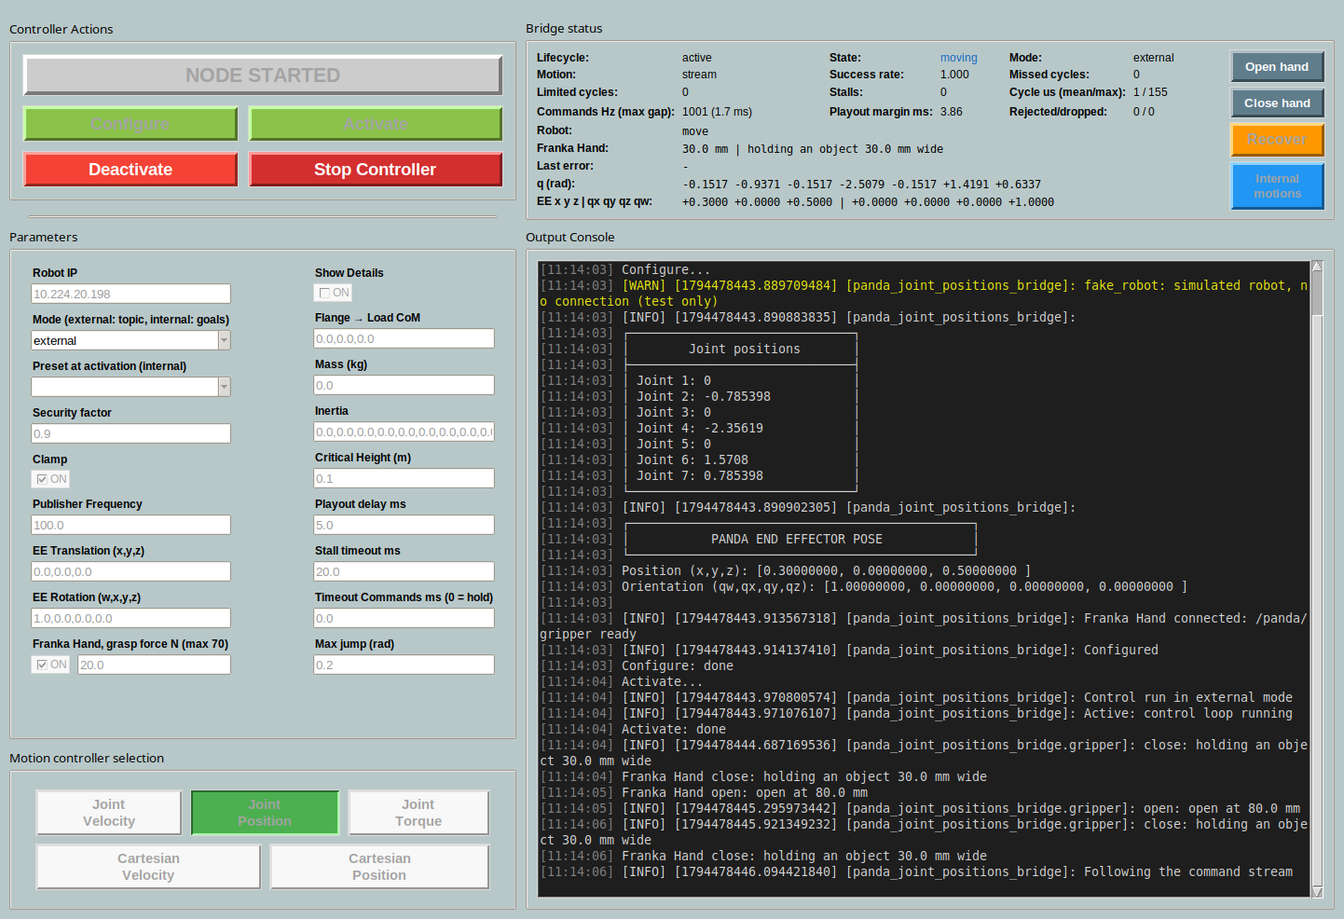
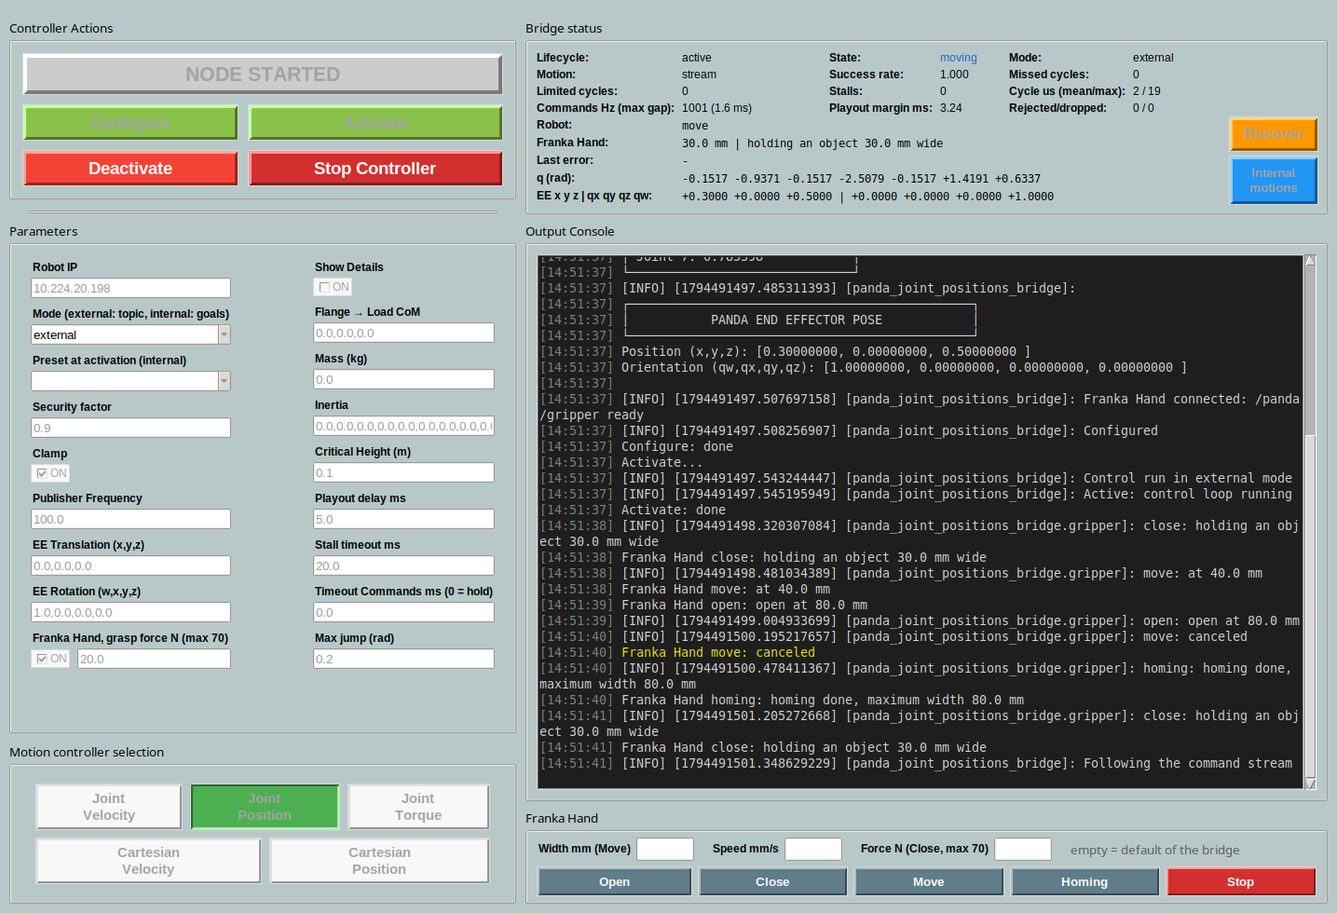
Document the dynamic model, the launch without GUI and the hand bar

diff --git a/README.it.md b/README.it.md
@@ -19,14 +19,15 @@ Il codice precedente a questa versione è nel branch [`old`](https://github.com/
 4. [Collegare il robot](#collegare-il-robot)
 5. [Avvio rapido](#avvio-rapido)
 6. [La GUI](#la-gui)
-7. [Comandare il robot da un proprio programma](#comandare-il-robot-da-un-proprio-programma)
-8. [Moti interni: goal e preset](#moti-interni-goal-e-preset)
-9. [La Franka Hand](#la-franka-hand)
-10. [Stato, errori e ripresa](#stato-errori-e-ripresa)
-11. [Parametri](#parametri)
-12. [Provare senza robot](#provare-senza-robot)
-13. [Prove sul robot](#prove-sul-robot)
-14. [Test automatici](#test-automatici)
+7. [Senza GUI](#senza-gui)
+8. [Comandare il robot da un proprio programma](#comandare-il-robot-da-un-proprio-programma)
+9. [Moti interni: goal e preset](#moti-interni-goal-e-preset)
+10. [La Franka Hand](#la-franka-hand)
+11. [Stato, errori e ripresa](#stato-errori-e-ripresa)
+12. [Parametri](#parametri)
+13. [Provare senza robot](#provare-senza-robot)
+14. [Prove sul robot](#prove-sul-robot)
+15. [Test automatici](#test-automatici)
 
 ## Come è fatto
 
@@ -163,8 +164,9 @@ Da valutare: gli interrupt della scheda di rete sulla stessa CPU del loop (`rt_c
 | 1 | **Controller Actions** | avvia il bridge e lo porta attraverso i suoi stati (tabella sotto) |
 | 2 | **Parameters** | parametri del bridge scelto; si bloccano mentre il bridge è in esecuzione |
 | 3 | **Motion controller selection** | quale bridge avviare: giunti sulla prima riga, cartesiani sulla seconda |
-| 4 | **Bridge status** | stato del bridge, del robot e della Franka Hand, aggiornato 5 volte al secondo; pulsanti **Open hand**, **Close hand**, **Recover** e **Internal motions** |
+| 4 | **Bridge status** | stato del bridge, del robot e della Franka Hand, aggiornato 5 volte al secondo; pulsanti **Recover** e **Internal motions** |
 | 5 | **Output Console** | il log della GUI e del bridge: errori in rosso, avvisi in giallo |
+| 6 | **Franka Hand** | i comandi della pinza: larghezza, velocità e forza (vuoti = default del bridge), **Open**, **Close**, **Move**, **Homing**, **Stop** |
 
 I pulsanti si abilitano solo quando l'azione è possibile:
 
@@ -175,7 +177,7 @@ I pulsanti si abilitano solo quando l'azione è possibile:
 | Activate | parte il loop di controllo a 1 kHz; il robot tiene la posizione |
 | Deactivate | fermata dolce, poi il loop si chiude; il robot resta connesso |
 | Stop Controller | Deactivate (se attivo), poi chiude il bridge |
-| Open hand, Close hand | aprono la Franka Hand, o la chiudono con la forza del parametro **Franka Hand, grasp force**, in ogni bridge e modalità; attivi mentre la pinza è collegata |
+| barra Franka Hand | **Open**, **Close** (con la forza della barra, o del parametro **Franka Hand, grasp force**), **Move** alla larghezza, **Homing**, **Stop**; in ogni bridge e modalità, attivi mentre la pinza è collegata |
 
 Se un passo fallisce, per esempio Configure con il robot non raggiungibile, compare un errore e la console dice perché.
 
@@ -216,6 +218,25 @@ Scegliendo **Mode** `internal` si apre la finestra **Internal motions**. Se la c
 Dopo un reflex del robot, lo user stop o un errore del bridge, **State** diventa `error`, la causa compare in **Last error** e in rosso nella console, e si abilita **Recover**. Recover esegue la procedura di ripresa di libfranka e, se il bridge è attivo, il robot torna a tenere la posizione.
 
 Nella schermata il bridge si è fermato perché non riceveva comandi da più di 500 ms (parametro **Timeout Commands ms**).
+
+## Senza GUI
+
+Per lasciare il driver acceso, o per avviarlo da uno script, usa `bridge.launch.py`: avvia un bridge, lo configura e lo attiva.
+
+```bash
+ros2 launch panda_utils bridge.launch.py bridge:=joint_positions
+ros2 launch panda_utils bridge.launch.py bridge:=cartesian_velocity mode:=internal robot_ip:=172.16.0.2
+ros2 launch panda_utils bridge.launch.py bridge:=joint_torques params_file:=/path/to/my.yaml activate:=false
+```
+
+| Argomento | Default | Significato |
+|---|---|---|
+| `bridge` | `joint_positions` | `joint_positions`, `joint_velocities`, `joint_torques`, `cartesian_position` o `cartesian_velocity` |
+| `params_file` | `config/bridge.yaml` del pacchetto | file YAML con i parametri (vedi [Parametri](#parametri)) |
+| `activate` | `true` | `false`: solo configurazione; l'attivazione poi con `ros2 lifecycle set /panda_<bridge>_bridge activate` |
+| `robot_ip`, `mode` | dal file | sostituiscono il valore del file |
+
+Per i tuoi parametri copia `src/panda_utils/config/bridge.yaml`, modificalo e passalo con `params_file`: i commenti spiegano come. Ctrl+C ferma il robot dolcemente, poi il bridge esce. Mentre un bridge gira così la GUI non può avviarne un altro: al robot si collega un solo bridge alla volta.
 
 ## Comandare il robot da un proprio programma
 
@@ -319,7 +340,7 @@ Un goal che porterebbe il robot oltre i finecorsa viene rifiutato; uno troppo ve
 
 ## La Franka Hand
 
-Ogni bridge comanda la Franka Hand con l'azione `/panda/gripper`, da Configure a Cleanup: in tutte e due le modalità, con il braccio fermo, in moto o disattivato. La pinza ha una connessione sua, quindi i suoi comandi non rallentano mai il loop a 1 kHz del braccio. Nella GUI: **Open hand** e **Close hand**.
+Ogni bridge comanda la Franka Hand con l'azione `/panda/gripper`, da Configure a Cleanup: in tutte e due le modalità, con il braccio fermo, in moto o disattivato. La pinza ha una connessione sua, quindi i suoi comandi non rallentano mai il loop a 1 kHz del braccio. Nella GUI: la barra **Franka Hand** sotto la console.
 
 | `command` | Cosa fa | Campi usati |
 |---|---|---|
@@ -343,7 +364,7 @@ ros2 action send_goal /panda/gripper uclv_panda_interfaces/action/Gripper "{comm
 
 Il risultato ha `success`, la larghezza finale `width` (m) e un `message`, per esempio `holding an object 30.0 mm wide` o `closed: nothing between the fingers`. Il feedback è l'apertura mentre le dita si muovono.
 
-- Un goal nuovo ferma quello in corso, che finisce come `preempted by a newer goal`: premendo Open hand mentre la pinza si chiude, si riapre subito.
+- Un goal nuovo ferma quello in corso, che finisce come `preempted by a newer goal`: premendo Open mentre la pinza si chiude, si riapre subito.
 - Il cancel di un goal ferma le dita dove sono.
 - Dopo un CLOSE su un oggetto la pinza continua a tenerlo, anche quando il bridge si chiude. Dopo un CLOSE a vuoto smette di stringere: le dita restano chiuse senza premere l'una sull'altra.
 - Appoggiate al finecorsa esterno (tutte aperte, come dopo un homing) le dita possono incastrarsi, e una presa da sola non le stacca: CLOSE prima le sposta di 2 mm con un movimento in posizione.
@@ -371,7 +392,7 @@ Da Configure in poi ogni bridge pubblica:
 | Topic | Tipo | Contenuto |
 |---|---|---|
 | `/joint_states` | `sensor_msgs/JointState` | posizioni, velocità e coppie dei giunti |
-| `/panda/robot_state` | `uclv_panda_interfaces/PandaRobotState` | stato completo: `q`, `q_d`, velocità, coppie, pose (`o_t_ee`, `o_t_ee_d`), forze esterne, modo ed errori del robot |
+| `/panda/robot_state` | `uclv_panda_interfaces/PandaRobotState` | stato completo: `q`, `q_d`, velocità, coppie, pose (`o_t_ee`, `o_t_ee_d`), forze esterne, modo ed errori del robot, modello dinamico ([sotto](#il-modello-dinamico)) |
 | `/pose_state_read_ee` | `geometry_msgs/PoseStamped` | posa dell'end effector letta dal robot |
 | `/pose_state_computed_ee` | `geometry_msgs/PoseStamped` | posa della flangia calcolata dal modello |
 | `/panda/gripper_state` | `sensor_msgs/JointState` | apertura della Franka Hand: `fer_finger_joint1` e `fer_finger_joint2`, metà dell'apertura ciascuno |
@@ -380,6 +401,21 @@ Da Configure in poi ogni bridge pubblica:
 ```bash
 ros2 topic echo /panda/bridge_status                              # diagnostica
 ros2 service call /panda/error_recovery std_srvs/srv/Trigger      # ripresa dopo un errore (= Recover)
+```
+
+### Il modello dinamico
+
+Con il robot vero, `/panda/robot_state` porta anche il modello di libfranka in quello stato: `jacobian` (jacobiano zero dello stesso end effector di `o_t_ee`), `mass`, `coriolis` (C(q, dq)·dq) e `gravity` (con il carico impostato sul robot), con `has_model` a true. Il robot simulato non ha un modello: `has_model` è false e i vettori sono a zero. Il bridge li calcola nel thread publisher, mai nel loop di controllo. Le matrici sono column-major, come in libfranka:
+
+```python
+import numpy as np
+
+def on_state(msg):
+    if msg.has_model:
+        J = np.array(msg.jacobian).reshape(7, 6).T  # 6x7
+        M = np.array(msg.mass).reshape(7, 7).T      # 7x7
+        twist = J @ np.array(msg.dq)                 # end effector (v, w) in the base frame
+        tau_free = np.array(msg.gravity) + np.array(msg.coriolis)
 ```
 
 Cosa fa il bridge negli altri casi:
@@ -495,11 +531,13 @@ Tieni sempre lo user stop in mano. Per le prove internal imposta `mode internal`
 | 19 | uno qualsiasi | | Deactivate e Activate 10 volte | ogni passo riesce |
 | 20 | uno qualsiasi | | user stop premuto, rilasciato, poi Recover | `error` e robot `user_stopped`; dopo Recover di nuovo `holding` |
 | 21 | uno qualsiasi | | Ctrl+C nel terminale della GUI con il bridge attivo | GUI e bridge escono in meno di un secondo |
-| 22 | uno qualsiasi | | Close hand, poi Open hand, senza niente tra le dita | le dita si chiudono del tutto (`closed: nothing between the fingers`), poi si aprono fino alla larghezza massima |
-| 23 | uno qualsiasi | | un oggetto tra le dita, poi Close hand | `holding an object … mm wide`, con la larghezza dell'oggetto; la pinza lo tiene fino a Open hand |
-| 24 | Joint Position | external | Close hand e Open hand durante `simple_joints_traj` | lo stream continua senza disturbi: `stalls` 0, success rate vicino a 1 |
+| 22 | uno qualsiasi | | Close, poi Open (barra Franka Hand), senza niente tra le dita | le dita si chiudono del tutto (`closed: nothing between the fingers`), poi si aprono fino alla larghezza massima |
+| 23 | uno qualsiasi | | un oggetto tra le dita, poi Close | `holding an object … mm wide`, con la larghezza dell'oggetto; la pinza lo tiene fino a Open |
+| 24 | Joint Position | external | Close e Open durante `simple_joints_traj` | lo stream continua senza disturbi: `stalls` 0, success rate vicino a 1 |
 | 25 | uno qualsiasi | | `ros2 action send_goal /panda/gripper uclv_panda_interfaces/action/Gripper "{command: 3}"` | homing: le dita si chiudono e si aprono, il risultato dà la larghezza massima |
-| 26 | uno qualsiasi | | subito dopo la prova 25, Close hand | le dita si chiudono: CLOSE prima le stacca dal finecorsa esterno |
+| 26 | uno qualsiasi | | subito dopo la prova 25, Close | le dita si chiudono: CLOSE prima le stacca dal finecorsa esterno |
+| 27 | uno qualsiasi | | robot fermo, `ros2 topic echo --once /panda/robot_state` | `has_model` true; `gravity` vicino a `tau_j`, entro pochi Nm |
+| 28 | Joint Position | external | senza GUI: `ros2 launch panda_utils bridge.launch.py bridge:=joint_positions robot_ip:=<ip-del-robot>`, poi `simple_joints_traj` | il bridge parte già attivo e segue lo stream; Ctrl+C lo ferma |
 
 Durante ogni prova, in `/panda/bridge_status`: `control_command_success_rate` vicino a 1, `last_error` vuoto (salvo la prova 20), `missed_cycles` che cresce poco, `stalls` a 0 quando uno stream finisce da solo.
 

diff --git a/README.md b/README.md
@@ -19,14 +19,15 @@ The code before this version is on the [`old`](https://github.com/gianmarcodipuo
 4. [Connecting the robot](#connecting-the-robot)
 5. [Quick start](#quick-start)
 6. [The GUI](#the-gui)
-7. [Commanding the robot from your own program](#commanding-the-robot-from-your-own-program)
-8. [Internal motions: goals and presets](#internal-motions-goals-and-presets)
-9. [The Franka Hand](#the-franka-hand)
-10. [State, errors and recovery](#state-errors-and-recovery)
-11. [Parameters](#parameters)
-12. [Trying it without a robot](#trying-it-without-a-robot)
-13. [Robot tests](#robot-tests)
-14. [Automated tests](#automated-tests)
+7. [Without the GUI](#without-the-gui)
+8. [Commanding the robot from your own program](#commanding-the-robot-from-your-own-program)
+9. [Internal motions: goals and presets](#internal-motions-goals-and-presets)
+10. [The Franka Hand](#the-franka-hand)
+11. [State, errors and recovery](#state-errors-and-recovery)
+12. [Parameters](#parameters)
+13. [Trying it without a robot](#trying-it-without-a-robot)
+14. [Robot tests](#robot-tests)
+15. [Automated tests](#automated-tests)
 
 ## How it works
 
@@ -163,8 +164,9 @@ Worth considering: the network card interrupts on the same CPU as the loop (`rt_
 | 1 | **Controller Actions** | starts the bridge and takes it through its states (table below) |
 | 2 | **Parameters** | parameters of the chosen bridge; they are locked while the bridge is running |
 | 3 | **Motion controller selection** | which bridge to start: joint bridges on the first row, Cartesian ones on the second |
-| 4 | **Bridge status** | state of the bridge, of the robot and of the Franka Hand, updated 5 times per second; **Open hand**, **Close hand**, **Recover** and **Internal motions** buttons |
+| 4 | **Bridge status** | state of the bridge, of the robot and of the Franka Hand, updated 5 times per second; **Recover** and **Internal motions** buttons |
 | 5 | **Output Console** | the log of the GUI and of the bridge: errors in red, warnings in yellow |
+| 6 | **Franka Hand** | the commands of the hand: width, speed and force (empty = default of the bridge), **Open**, **Close**, **Move**, **Homing**, **Stop** |
 
 The buttons are enabled only when the action is possible:
 
@@ -175,7 +177,7 @@ The buttons are enabled only when the action is possible:
 | Activate | starts the 1 kHz control loop; the robot holds its position |
 | Deactivate | smooth stop, then the loop ends; the robot stays connected |
 | Stop Controller | Deactivate (if active), then closes the bridge |
-| Open hand, Close hand | open the Franka Hand, or close it with the force of the **Franka Hand, grasp force** parameter, in every bridge and mode; enabled while the hand is connected |
+| Franka Hand bar | **Open**, **Close** (with the force of the bar, or of the **Franka Hand, grasp force** parameter), **Move** to the width, **Homing**, **Stop**; in every bridge and mode, enabled while the hand is connected |
 
 If a step fails, for example Configure with the robot unreachable, an error pops up and the console says why.
 
@@ -216,6 +218,25 @@ Choosing **Mode** `internal` opens the **Internal motions** window. If you close
 After a robot reflex, the user stop or a bridge error, **State** becomes `error`, the cause appears in **Last error** and in red in the console, and **Recover** is enabled. Recover runs the libfranka recovery procedure and, if the bridge is active, the robot holds its position again.
 
 In the screenshot the bridge stopped because it had received no commands for more than 500 ms (parameter **Timeout Commands ms**).
+
+## Without the GUI
+
+To leave the driver running, or to start it from a script, use `bridge.launch.py`: it starts one bridge, configures it and activates it.
+
+```bash
+ros2 launch panda_utils bridge.launch.py bridge:=joint_positions
+ros2 launch panda_utils bridge.launch.py bridge:=cartesian_velocity mode:=internal robot_ip:=172.16.0.2
+ros2 launch panda_utils bridge.launch.py bridge:=joint_torques params_file:=/path/to/my.yaml activate:=false
+```
+
+| Argument | Default | Meaning |
+|---|---|---|
+| `bridge` | `joint_positions` | `joint_positions`, `joint_velocities`, `joint_torques`, `cartesian_position` or `cartesian_velocity` |
+| `params_file` | `config/bridge.yaml` of the package | YAML file with the parameters (see [Parameters](#parameters)) |
+| `activate` | `true` | `false`: configure only; activate later with `ros2 lifecycle set /panda_<bridge>_bridge activate` |
+| `robot_ip`, `mode` | from the file | override the file |
+
+For your own parameters, copy `src/panda_utils/config/bridge.yaml`, change it and pass it with `params_file`: its comments explain how. Ctrl+C stops the robot smoothly, then the bridge exits. While a bridge runs this way the GUI cannot start another one: only one bridge at a time connects to the robot.
 
 ## Commanding the robot from your own program
 
@@ -319,7 +340,7 @@ A goal that would take the robot beyond its joint limits is rejected; one that i
 
 ## The Franka Hand
 
-Every bridge drives the Franka Hand with the action `/panda/gripper`, from Configure to Cleanup: in both modes, with the arm still, moving or deactivated. The hand has a connection of its own, so its commands never slow down the 1 kHz loop of the arm. In the GUI: **Open hand** and **Close hand**.
+Every bridge drives the Franka Hand with the action `/panda/gripper`, from Configure to Cleanup: in both modes, with the arm still, moving or deactivated. The hand has a connection of its own, so its commands never slow down the 1 kHz loop of the arm. In the GUI: the **Franka Hand** bar under the console.
 
 | `command` | What it does | Fields used |
 |---|---|---|
@@ -343,7 +364,7 @@ ros2 action send_goal /panda/gripper uclv_panda_interfaces/action/Gripper "{comm
 
 The result has `success`, the final `width` (m) and a `message`, for example `holding an object 30.0 mm wide` or `closed: nothing between the fingers`. The feedback is the opening while the fingers move.
 
-- A new goal stops the running one, which ends as `preempted by a newer goal`: pressing Open hand while the hand closes opens it at once.
+- A new goal stops the running one, which ends as `preempted by a newer goal`: pressing Open while the hand closes opens it at once.
 - Canceling a goal stops the fingers where they are.
 - After a CLOSE on an object the hand keeps holding it, also when the bridge closes. After a CLOSE on nothing it stops squeezing: the fingers stay closed without pressing on each other.
 - Resting on the outer end stop (fully open, as after a homing) the fingers may stick, and a grasp alone does not free them: CLOSE first moves them 2 mm with a position move.
@@ -371,7 +392,7 @@ From Configure on, every bridge publishes:
 | Topic | Type | Content |
 |---|---|---|
 | `/joint_states` | `sensor_msgs/JointState` | joint positions, velocities and torques |
-| `/panda/robot_state` | `uclv_panda_interfaces/PandaRobotState` | full state: `q`, `q_d`, velocities, torques, poses (`o_t_ee`, `o_t_ee_d`), external forces, robot mode and errors |
+| `/panda/robot_state` | `uclv_panda_interfaces/PandaRobotState` | full state: `q`, `q_d`, velocities, torques, poses (`o_t_ee`, `o_t_ee_d`), external forces, robot mode and errors, dynamic model ([below](#the-dynamic-model)) |
 | `/pose_state_read_ee` | `geometry_msgs/PoseStamped` | end-effector pose read from the robot |
 | `/pose_state_computed_ee` | `geometry_msgs/PoseStamped` | flange pose computed from the model |
 | `/panda/gripper_state` | `sensor_msgs/JointState` | opening of the Franka Hand: `fer_finger_joint1` and `fer_finger_joint2`, half of the opening each |
@@ -380,6 +401,21 @@ From Configure on, every bridge publishes:
 ```bash
 ros2 topic echo /panda/bridge_status                              # diagnostics
 ros2 service call /panda/error_recovery std_srvs/srv/Trigger      # recovery after an error (= Recover)
+```
+
+### The dynamic model
+
+With the real robot, `/panda/robot_state` also carries the model of libfranka at that state: `jacobian` (zero Jacobian of the same end effector as `o_t_ee`), `mass`, `coriolis` (C(q, dq)·dq) and `gravity` (with the load set on the robot), with `has_model` true. The simulated robot has no model: `has_model` is false and the arrays are zero. The bridge computes them in its publisher thread, never in the control loop. The matrices are column-major, as in libfranka:
+
+```python
+import numpy as np
+
+def on_state(msg):
+    if msg.has_model:
+        J = np.array(msg.jacobian).reshape(7, 6).T  # 6x7
+        M = np.array(msg.mass).reshape(7, 7).T      # 7x7
+        twist = J @ np.array(msg.dq)                 # end effector (v, w) in the base frame
+        tau_free = np.array(msg.gravity) + np.array(msg.coriolis)
 ```
 
 What the bridge does in the other cases:
@@ -495,11 +531,13 @@ Always keep the user stop in your hand. For the internal tests, set `mode intern
 | 19 | any | | Deactivate and Activate 10 times | every step succeeds |
 | 20 | any | | user stop pressed, released, then Recover | `error` and robot `user_stopped`; after Recover `holding` again |
 | 21 | any | | Ctrl+C in the GUI terminal with the bridge active | GUI and bridge exit in less than a second |
-| 22 | any | | Close hand, then Open hand, with nothing between the fingers | the fingers close fully (`closed: nothing between the fingers`), then open to the maximum width |
-| 23 | any | | an object between the fingers, then Close hand | `holding an object … mm wide`, with the width of the object; the hand holds it until Open hand |
-| 24 | Joint Position | external | Close hand and Open hand during `simple_joints_traj` | the stream goes on undisturbed: `stalls` 0, success rate close to 1 |
+| 22 | any | | Close, then Open (Franka Hand bar), with nothing between the fingers | the fingers close fully (`closed: nothing between the fingers`), then open to the maximum width |
+| 23 | any | | an object between the fingers, then Close | `holding an object … mm wide`, with the width of the object; the hand holds it until Open |
+| 24 | Joint Position | external | Close and Open during `simple_joints_traj` | the stream goes on undisturbed: `stalls` 0, success rate close to 1 |
 | 25 | any | | `ros2 action send_goal /panda/gripper uclv_panda_interfaces/action/Gripper "{command: 3}"` | homing: the fingers close and open, the result gives the maximum width |
-| 26 | any | | right after test 25, Close hand | the fingers close: CLOSE first frees them from the outer end stop |
+| 26 | any | | right after test 25, Close | the fingers close: CLOSE first frees them from the outer end stop |
+| 27 | any | | robot still, `ros2 topic echo --once /panda/robot_state` | `has_model` true; `gravity` close to `tau_j`, within a few Nm |
+| 28 | Joint Position | external | without the GUI: `ros2 launch panda_utils bridge.launch.py bridge:=joint_positions robot_ip:=<robot-ip>`, then `simple_joints_traj` | the bridge starts already active and follows the stream; Ctrl+C stops it |
 
 During each test, in `/panda/bridge_status`: `control_command_success_rate` close to 1, `last_error` empty (except in test 20), `missed_cycles` growing slowly, `stalls` at 0 when a stream ends by itself.
 

diff --git a/docs/ARCHITECTURE.md b/docs/ARCHITECTURE.md
@@ -21,7 +21,7 @@ client ──topic──▶ subscription ──lock-free queue──▶ 1 kHz lo
 Each bridge uses these threads:
 
 - **Robot thread.** With the bridge active it runs `robot.control()`, which libfranka raises to SCHED_FIFO 99. With the bridge inactive it reads the state with `readOnce()` at `publish_freq`.
-- **Publisher thread.** It publishes state and status at `publish_freq` and writes the loop events to the log.
+- **Publisher thread.** It publishes state and status at `publish_freq`, with the dynamic model of `franka::Model` (Jacobian, mass, Coriolis, gravity), and writes the loop events to the log.
 - **Executor.** A MultiThreadedExecutor with 5 threads: lifecycle, commands, actions and services, recovery, gripper.
 - **Gripper threads.** With a Franka Hand: one reads its state and publishes it, one runs its commands (see [The Franka Hand](#the-franka-hand)).
 
@@ -114,7 +114,7 @@ There is no source file per bridge: the bridges are two families of shared code,
 | File | Content |
 |---|---|
 | `msg/JointsCommandedPositions.msg` | joint position command |
-| `msg/PandaRobotState.msg` | full robot state |
+| `msg/PandaRobotState.msg` | full robot state and dynamic model |
 | `msg/BridgeStatus.msg` | bridge state and diagnostics |
 | `srv/RunPreset.srv` | starts a preset (name, duration, amplitude) |
 | `action/JointTraj.action` | joint goal: positions and duration |
@@ -165,6 +165,8 @@ The headers are in `include/panda_utils/bridge/`, the sources in `src/bridge/`.
 | `include/panda_utils/constants.hpp`, `utils_func.hpp` | names, QoS and shared geometric functions |
 | `gui/panda_gui_py.py` | the GUI (Tkinter + rclpy) |
 | `launch/gui.launch.py` | launches the GUI |
+| `launch/bridge.launch.py` | starts one bridge without the GUI, then configures and activates it |
+| `config/bridge.yaml` | parameters of the bridges for `bridge.launch.py`, with comments |
 | `src/panda_gui.cpp` | old Qt GUI, no longer used |
 
 ### Tests (`panda_utils/test/`)

diff --git a/docs/ARCHITECTURE.it.md b/docs/ARCHITECTURE.it.md
@@ -21,7 +21,7 @@ client ──topic──▶ subscription ──coda lock-free──▶ loop 1 kH
 Ogni bridge usa questi thread:
 
 - **Thread robot.** Con il bridge attivo esegue `robot.control()`, che libfranka porta a SCHED_FIFO 99. Con il bridge inattivo legge lo stato con `readOnce()` a `publish_freq`.
-- **Thread publisher.** Pubblica stato e status a `publish_freq` e scrive nei log gli eventi del loop.
+- **Thread publisher.** Pubblica stato e status a `publish_freq`, con il modello dinamico di `franka::Model` (jacobiano, massa, Coriolis, gravità), e scrive nei log gli eventi del loop.
 - **Executor.** Un MultiThreadedExecutor con 5 thread: lifecycle, comandi, azioni e servizi, recovery, pinza.
 - **Thread della pinza.** Con una Franka Hand: uno ne legge lo stato e lo pubblica, uno esegue i suoi comandi (vedi [La Franka Hand](#la-franka-hand)).
 
@@ -114,7 +114,7 @@ Non c'è un file sorgente per ogni bridge: i bridge sono due famiglie di codice 
 | File | Contenuto |
 |---|---|
 | `msg/JointsCommandedPositions.msg` | comando di posizioni di giunto |
-| `msg/PandaRobotState.msg` | stato completo del robot |
+| `msg/PandaRobotState.msg` | stato completo del robot e modello dinamico |
 | `msg/BridgeStatus.msg` | stato e diagnostica del bridge |
 | `srv/RunPreset.srv` | avvio di un preset (nome, durata, ampiezza) |
 | `action/JointTraj.action` | goal di giunto: posizioni e durata |
@@ -165,6 +165,8 @@ Gli header sono in `include/panda_utils/bridge/`, i sorgenti in `src/bridge/`.
 | `include/panda_utils/constants.hpp`, `utils_func.hpp` | nomi, QoS e funzioni geometriche comuni |
 | `gui/panda_gui_py.py` | la GUI (Tkinter + rclpy) |
 | `launch/gui.launch.py` | lancia la GUI |
+| `launch/bridge.launch.py` | avvia un bridge senza GUI, poi lo configura e lo attiva |
+| `config/bridge.yaml` | parametri dei bridge per `bridge.launch.py`, con i commenti |
 | `src/panda_gui.cpp` | vecchia GUI in Qt, non più usata |
 
 ### Test (`panda_utils/test/`)
